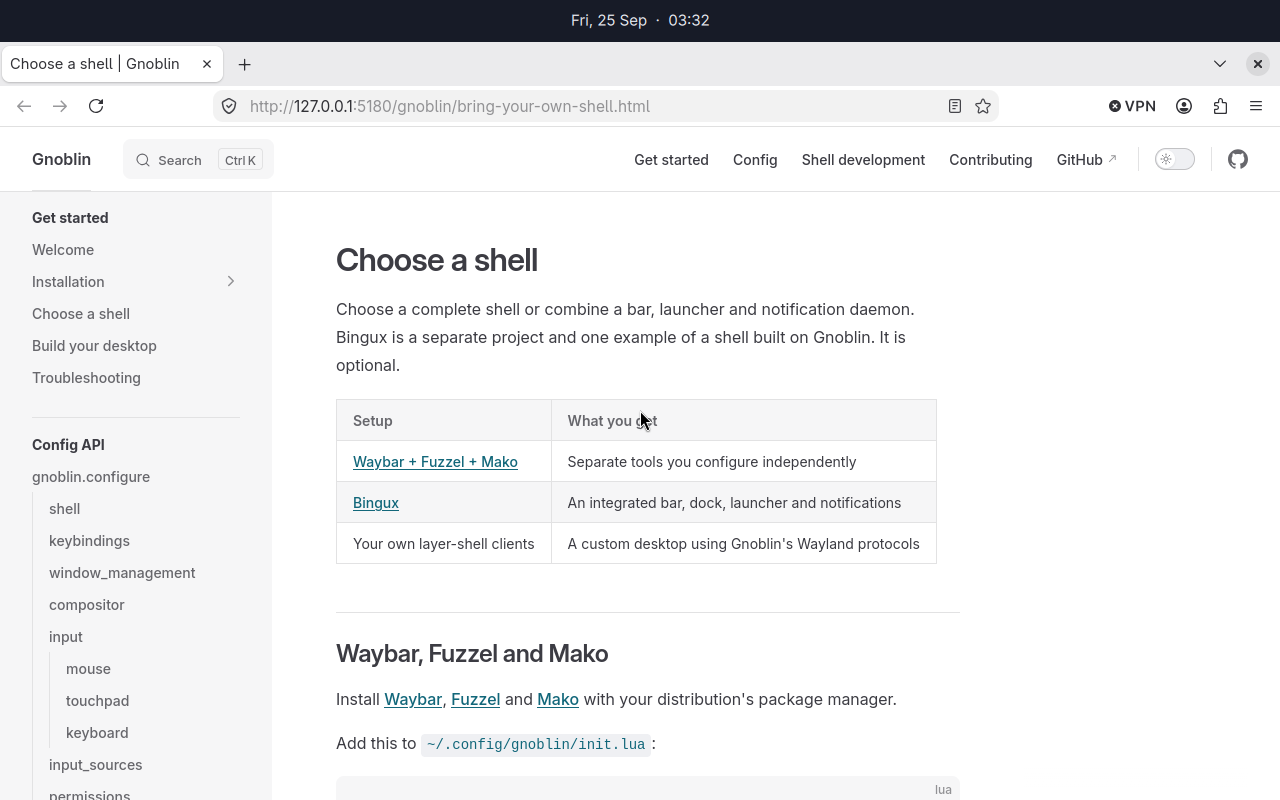
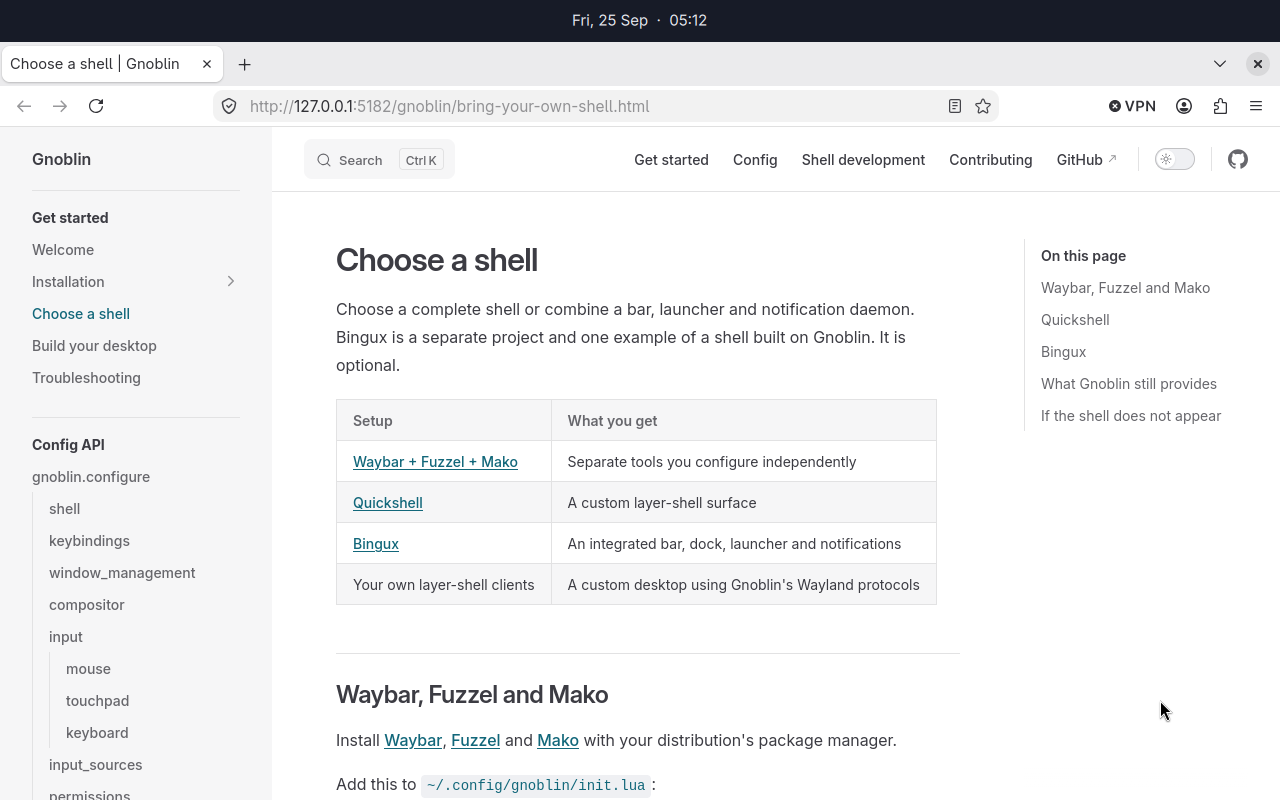
Improve shell docs examples and GNOME 51 patches

diff --git a/scripts/composite-doc-cursor.py b/scripts/composite-doc-cursor.py
@@ -10,6 +10,7 @@ import ctypes
 import os
 from pathlib import Path
 import sys
+import time
 
 from PIL import Image
 
@@ -45,6 +46,20 @@ def main() -> int:
     display.XDisplayWidth.restype = ctypes.c_int
     display.XDisplayHeight.argtypes = [ctypes.c_void_p, ctypes.c_int]
     display.XDisplayHeight.restype = ctypes.c_int
+    display.XDefaultRootWindow.argtypes = [ctypes.c_void_p]
+    display.XDefaultRootWindow.restype = ctypes.c_ulong
+    display.XWarpPointer.argtypes = [
+        ctypes.c_void_p,
+        ctypes.c_ulong,
+        ctypes.c_ulong,
+        ctypes.c_int,
+        ctypes.c_int,
+        ctypes.c_uint,
+        ctypes.c_uint,
+        ctypes.c_int,
+        ctypes.c_int,
+    ]
+    display.XSync.argtypes = [ctypes.c_void_p, ctypes.c_int]
     display.XCloseDisplay.argtypes = [ctypes.c_void_p]
     display.XFree.argtypes = [ctypes.c_void_p]
     fixes.XFixesGetCursorImage.restype = ctypes.POINTER(CursorImage)
@@ -53,19 +68,6 @@ def main() -> int:
     connection = display.XOpenDisplay(None)
     if not connection:
         raise RuntimeError("Could not read the live pointer from the host XWayland display")
-    image_ptr = fixes.XFixesGetCursorImage(connection)
-    if not image_ptr:
-        display.XCloseDisplay(connection)
-        raise RuntimeError("XFixes did not return the live pointer image")
-
-    cursor = image_ptr.contents
-    rgba = []
-    for index in range(cursor.width * cursor.height):
-        pixel = cursor.pixels[index] & 0xFFFFFFFF
-        rgba.append(((pixel >> 16) & 0xFF, (pixel >> 8) & 0xFF, pixel & 0xFF, (pixel >> 24) & 0xFF))
-    pointer = Image.new("RGBA", (cursor.width, cursor.height))
-    pointer.putdata(rgba)
-
     with Image.open(output) as scene:
         scene = scene.convert("RGBA")
         screen = display.XDefaultScreen(connection)
@@ -75,6 +77,28 @@ def main() -> int:
         # the canvas center ten pixels above the host screen center.
         origin_x = int(os.environ.get("GNOBLIN_DOC_VIEWPORT_X") or (screen_width - scene.width) // 2)
         origin_y = int(os.environ.get("GNOBLIN_DOC_VIEWPORT_Y") or (screen_height - scene.height) // 2 - 10)
+        requested_position = os.environ.get("GNOBLIN_DOC_POINTER")
+        if requested_position:
+            target_x, target_y = map(int, requested_position.split())
+            if not 0 <= target_x < scene.width or not 0 <= target_y < scene.height:
+                raise RuntimeError(f"Requested cursor position {target_x},{target_y} is outside the screenshot")
+            root_window = display.XDefaultRootWindow(connection)
+            display.XWarpPointer(connection, 0, root_window, 0, 0, 0, 0, origin_x + target_x, origin_y + target_y)
+            display.XSync(connection, 0)
+            time.sleep(0.1)
+
+        image_ptr = fixes.XFixesGetCursorImage(connection)
+        if not image_ptr:
+            display.XCloseDisplay(connection)
+            raise RuntimeError("XFixes did not return the live pointer image")
+
+        cursor = image_ptr.contents
+        rgba = []
+        for index in range(cursor.width * cursor.height):
+            pixel = cursor.pixels[index] & 0xFFFFFFFF
+            rgba.append(((pixel >> 16) & 0xFF, (pixel >> 8) & 0xFF, pixel & 0xFF, (pixel >> 24) & 0xFF))
+        pointer = Image.new("RGBA", (cursor.width, cursor.height))
+        pointer.putdata(rgba)
         position = (cursor.x - cursor.xhot - origin_x, cursor.y - cursor.yhot - origin_y)
         if position[0] < 0 or position[1] < 0 or position[0] >= scene.width or position[1] >= scene.height:
             raise RuntimeError(

diff --git a/tests/gnome-shell-overlay-resources.test.py b/tests/gnome-shell-overlay-resources.test.py
@@ -5,6 +5,7 @@ from __future__ import annotations
 
 import sys
 import xml.etree.ElementTree as ET
+from collections import Counter
 from pathlib import Path
 
 
@@ -17,7 +18,15 @@ def main() -> int:
         print(f"missing patched resource manifest: {RESOURCE_MANIFEST}", file=sys.stderr)
         return 1
 
-    resources = {(element.text or "").strip() for element in ET.parse(RESOURCE_MANIFEST).iter("file")}
+    resource_entries = [(element.text or "").strip() for element in ET.parse(RESOURCE_MANIFEST).iter("file")]
+    duplicates = sorted(name for name, count in Counter(resource_entries).items() if count > 1)
+    if duplicates:
+        print("duplicate JavaScript resources in js-resources.gresource.xml:", file=sys.stderr)
+        for resource in duplicates:
+            print(f"  {resource}", file=sys.stderr)
+        return 1
+
+    resources = set(resource_entries)
     overlays: list[tuple[Path, str]] = []
     for manifest in sorted((ROOT / "src").rglob("manifest")):
         for line in manifest.read_text().splitlines():

diff --git a/docs/wayland-protocols.md b/docs/wayland-protocols.md
@@ -55,6 +55,10 @@ and exclusive zone. Gnoblin then places the surface and applies any matching
 `type = "layer"` [window rules](/guides/window_rules). A panel that animates its own
 whole surface can disable the compositor's layer animation for its namespace.
 
+![A Quickshell panel above Firefox in a Gnoblin session](images/gnoblin-quickshell-firefox.png)
+
+_Quickshell positions the panel with layer shell._
+
 Screen capture through `wlr_screencopy` is separate from capture through the
 desktop portal. The latter follows [portal permission policy](/guides/permissions).
 Turning off this global is not a blanket screen-sharing policy.

diff --git a/docs/devkit.md b/docs/devkit.md
@@ -90,8 +90,9 @@ scripts/capture-doc-examples.sh quickshell-firefox
 ```
 
 Each capture uses a disposable profile and removes it afterward. The scenes
-show Files, Firefox under Waybar, Fuzzel over Firefox, a Mako notification, a
-Quickshell panel, and Bingux with stock desktop apps. Bingux is one separate
+show Files under Waybar, Firefox with Waybar, Fuzzel over Firefox, a Mako
+notification over Firefox, a Quickshell panel, and Bingux with stock desktop
+apps. Bingux is one separate
 shell project using Gnoblin. Firefox opens the local docs preview at
 `127.0.0.1:5180`; start it with
 `npm run docs:dev -- --port 5180` first.

diff --git a/docs/compositor-bridge.md b/docs/compositor-bridge.md
@@ -18,6 +18,10 @@ debugging a client connection.
 Bingux is a separate shell project that uses this interface. A custom shell can
 connect to it without installing Bingux.
 
+![Bingux dock with Files, Firefox and Foot in a Gnoblin session](images/gnoblin-bingux-firefox.png)
+
+_Bingux is one shell example built on Gnoblin's compositor interfaces._
+
 ## Connect
 
 Socket: `$XDG_RUNTIME_DIR/gnoblin/compositor-v1.sock`.

diff --git a/docs/config/configure/shortcuts.md b/docs/config/configure/shortcuts.md
@@ -15,6 +15,10 @@ gnoblin.configure {
 
 See the [shortcuts guide](/guides/shortcuts) for key names, conflicts and command behavior.
 
+![Fuzzel's application list open over Firefox](../../images/gnoblin-waybar-launcher.png)
+
+_Fuzzel opens from a Gnoblin shortcut._
+
 ## Run a built-in action
 
 An `action` names an existing GNOME keybinding as `group.key`. Accepted

diff --git a/docs/bring-your-own-shell.md b/docs/bring-your-own-shell.md
@@ -45,7 +45,7 @@ _Firefox under Waybar in a fresh Gnoblin profile._
 
 ![A Mako notification in a fresh Gnoblin session](images/gnoblin-mako-notification.png)
 
-_Mako displays a download notification as an independent desktop service._
+_Mako places a download notice above Firefox in a Waybar session._
 
 ## Quickshell
 
